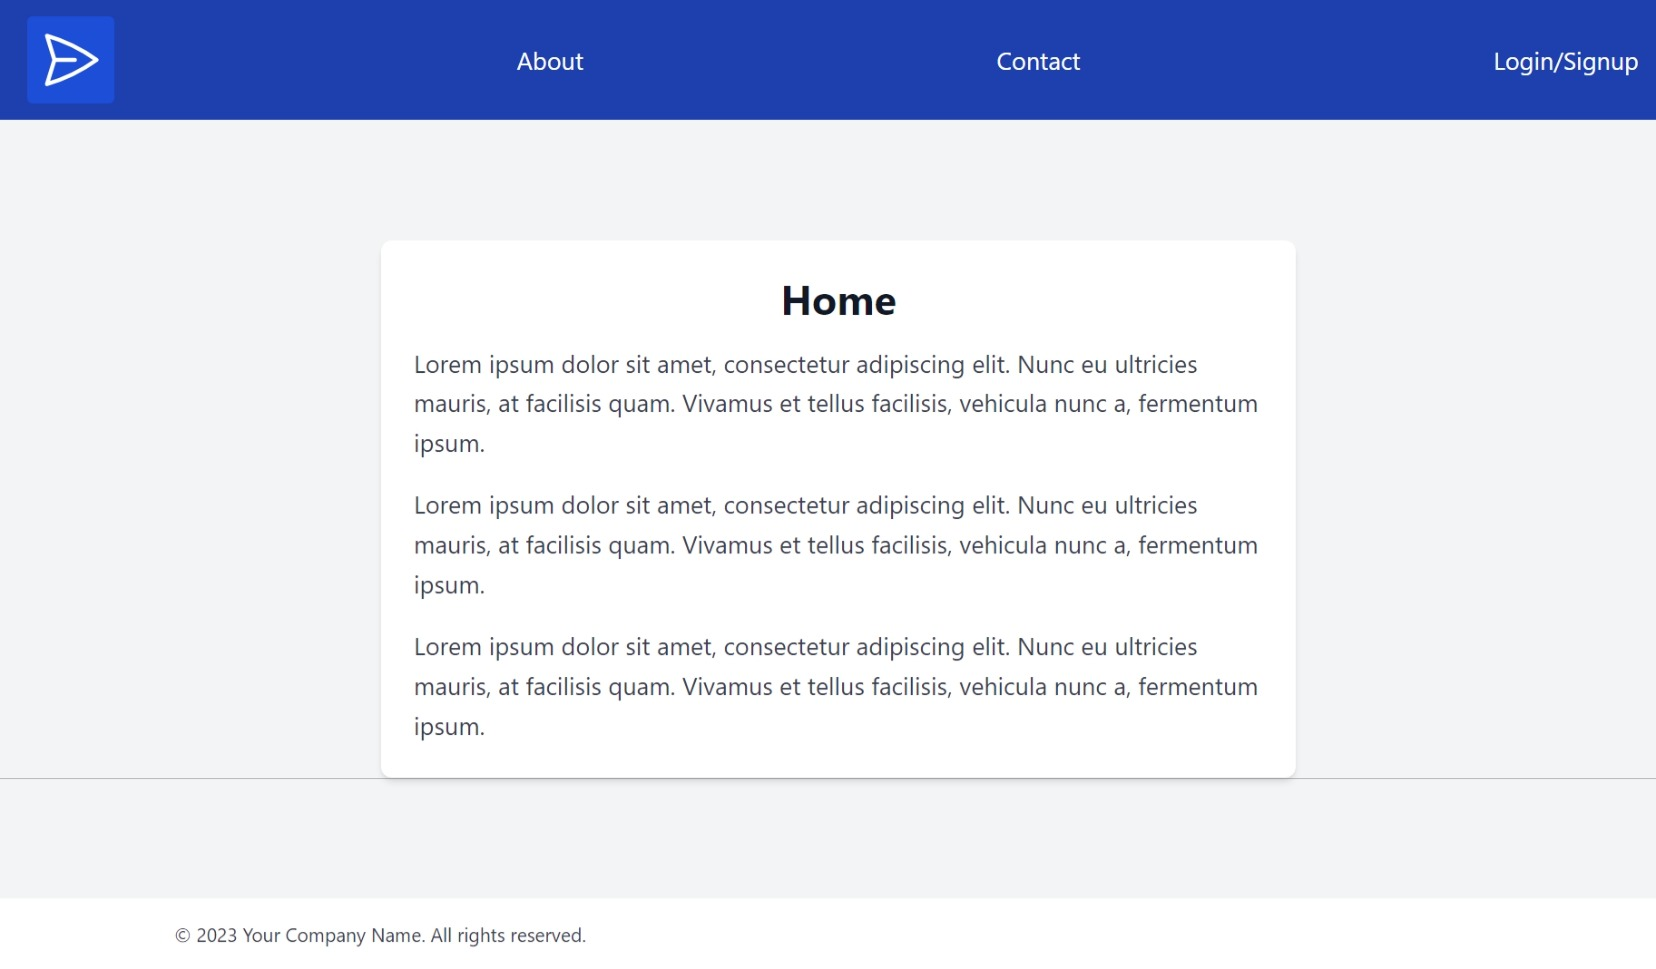
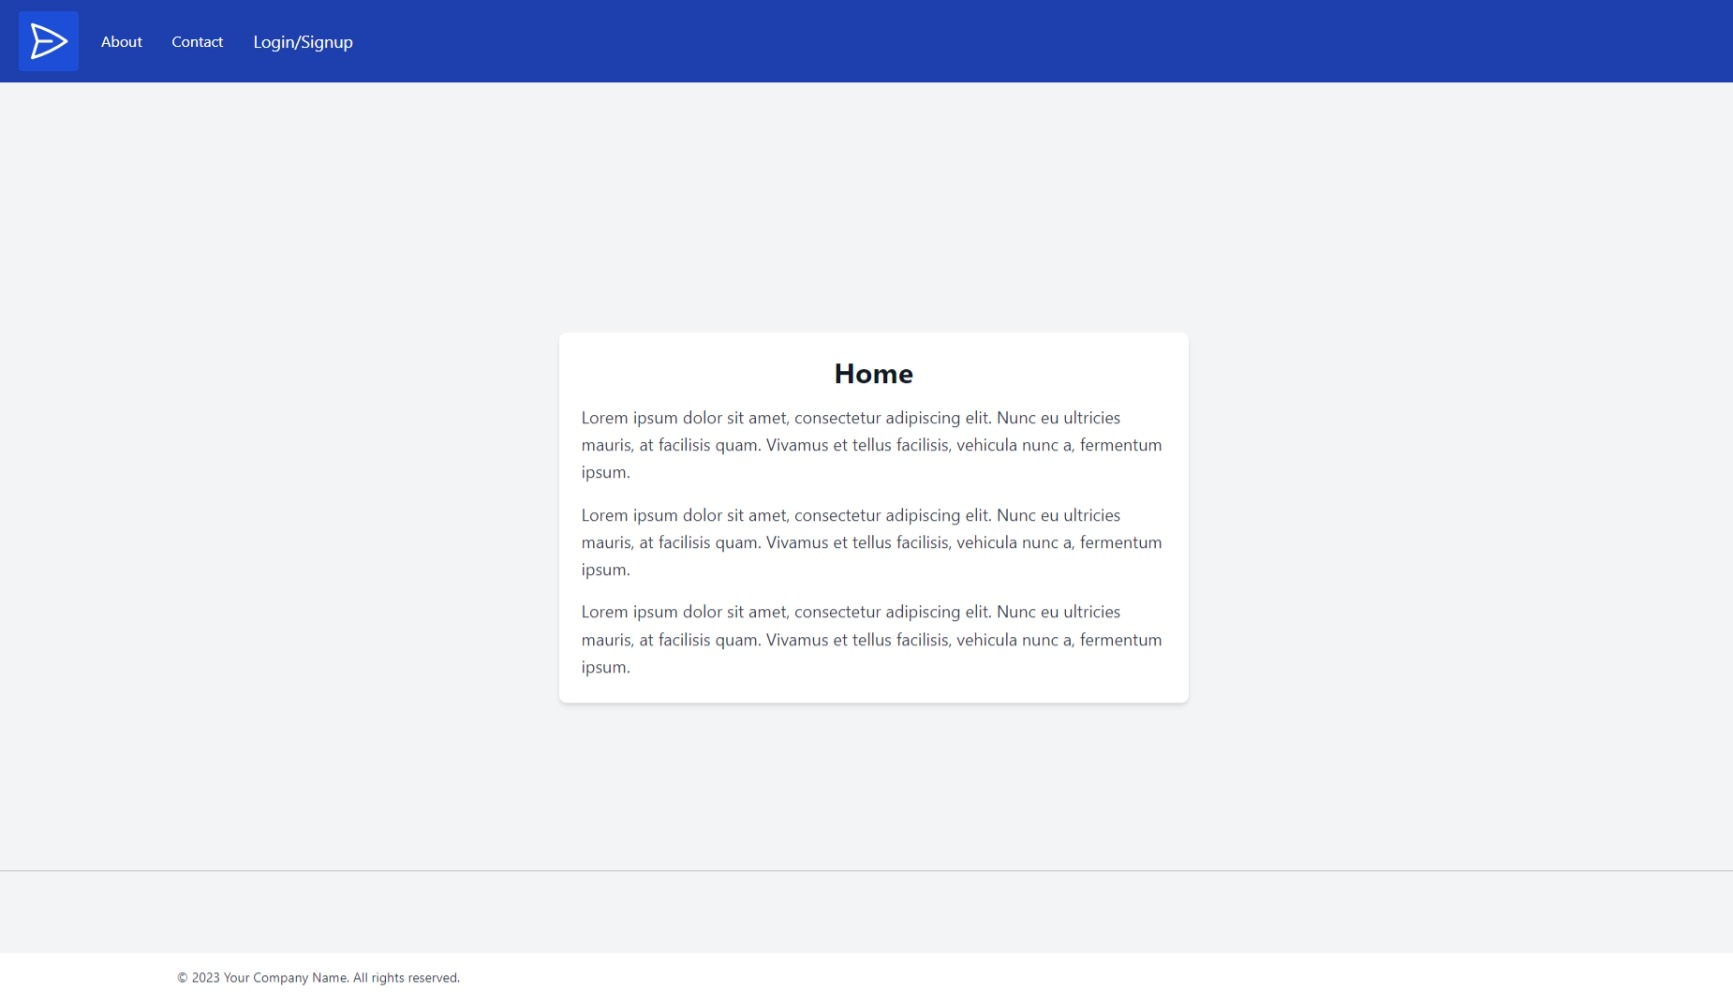
updated screenshots

diff --git a/skyway-demo-dash/src/components/Nav/index.jsx b/skyway-demo-dash/src/components/Nav/index.jsx
@@ -4,6 +4,7 @@ import { UserContext } from "../../contexts/UserContext"; // Assuming you have a
 import { useNavigate } from "react-router-dom";
 
 function Nav() {
+  const [isMenuOpen, setIsMenuOpen] = useState(false);
   const [dropdownOpen, setDropdownOpen] = useState(false);
   const dropdownRef = useRef(null);
   const { user, setUser, isAdmin, setIsAdmin } = useContext(UserContext); // Using useContext to access user and isAdmin state
@@ -44,167 +45,185 @@ function Nav() {
   }, []);
 
   return (
-<nav className="bg-blue-800 text-white p-3 shadow-md">
-  <ul className="flex flex-col md:flex-row justify-between items-center">
-        <li className="mx-2">
-          <NavLink
-            to="/"
-            className={({ isActive }) =>
-              isActive
-                ? "bg-blue-700 p-2 rounded text-lg flex items-center"
-                : "hover:bg-blue-700 p-2 rounded text-lg flex items-center"
-            }
-          >
-            <svg
-              xmlns="http://www.w3.org/2000/svg"
-              fill="none"
-              viewBox="0 0 24 24"
-              strokeWidth={1.5}
-              stroke="currentColor"
-              width="48"
-              height="48"
-              className="flex-shrink-0"
-            >
-              <path
-                strokeLinecap="round"
-                strokeLinejoin="round"
-                d="M6 12L3.269 3.126A59.768 59.768 0 0121.485 12 59.77 59.77 0 013.27 20.876L5.999 12zm0 0h7.5"
-              />
-            </svg>
-          </NavLink>
-        </li>
-
-        {user && isAdmin && (
+    <nav className="bg-blue-800 text-white p-3 shadow-md">
+      <div className="md:hidden" onClick={() => setIsMenuOpen(!isMenuOpen)}>
+        <svg
+          xmlns="http://www.w3.org/2000/svg"
+          fill="none"
+          viewBox="0 0 24 24"
+          strokeWidth={1.5}
+          stroke="currentColor"
+          className="w-6 h-6"
+        >
+          <path
+            strokeLinecap="round"
+            strokeLinejoin="round"
+            d="M3.75 6.75h16.5M3.75 12h16.5m-16.5 5.25h16.5"
+          />
+        </svg>
+      </div>
+      <div className={`${isMenuOpen ? "block" : "hidden"} md:flex`}>
+        <ul className="flex flex-col md:flex-row justify-between items-center">
           <li className="mx-2">
             <NavLink
-              to="/AdminDashboard"
+              to="/"
               className={({ isActive }) =>
                 isActive
-                ? "bg-blue-700 p-2 rounded text-lg"
-                : "hover:bg-blue-700 p-2 rounded text-lg md:text-base"
+                  ? "bg-blue-700 p-2 rounded text-lg flex items-center"
+                  : "hover:bg-blue-700 p-2 rounded text-lg flex items-center"
               }
             >
-              Admin Dashboard
-            </NavLink>
-          </li>
-        )}
-
-        {user && !isAdmin && (
-          <li className="mx-2">
-            <NavLink
-              to="/CustDashboard"
-              className={({ isActive }) =>
-                isActive
-                ? "bg-blue-700 p-2 rounded text-lg"
-                : "hover:bg-blue-700 p-2 rounded text-lg md:text-base"
-              }
-            >
-              Customer Dashboard
-            </NavLink>
-          </li>
-        )}
-        {user && !isAdmin && (
-          <li className="mx-2">
-            <NavLink
-              to="/FleetManager"
-              className={({ isActive }) =>
-                isActive
-                ? "bg-blue-700 p-2 rounded text-lg"
-                : "hover:bg-blue-700 p-2 rounded text-lg md:text-base"
-              }
-            >
-              Fleet Manager
-            </NavLink>
-          </li>
-        )}
-
-        <li className="mx-2">
-          <NavLink
-            to="/about"
-            className={({ isActive }) =>
-              isActive
-              ? "bg-blue-700 p-2 rounded text-lg"
-              : "hover:bg-blue-700 p-2 rounded text-lg md:text-base"
-            }
-          >
-            About
-          </NavLink>
-        </li>
-
-        <li className="mx-2">
-          <NavLink
-            to="/contact"
-            className={({ isActive }) =>
-              isActive
-              ? "bg-blue-700 p-2 rounded text-lg"
-              : "hover:bg-blue-700 p-2 rounded text-lg md:text-base"
-            }
-          >
-            Contact
-          </NavLink>
-        </li>
-
-        {!user && (
-          <li className="mx-2 relative">
-            <button
-              onClick={toggleDropdown}
-              className="hover:bg-blue-700 p-2 rounded focus:outline-none focus:ring-2 focus:ring-blue-500 focus:border-blue-300 text-lg"
-              aria-haspopup="true"
-              aria-expanded={dropdownOpen}
-            >
-              Login/Signup
-            </button>
-            {dropdownOpen && (
-              <div
-                ref={dropdownRef}
-                className="absolute right-0 mt-2 py-2 w-48 bg-white rounded-md shadow-xl z-50"
+              <svg
+                xmlns="http://www.w3.org/2000/svg"
+                fill="none"
+                viewBox="0 0 24 24"
+                strokeWidth={1.5}
+                stroke="currentColor"
+                width="48"
+                height="48"
+                className="flex-shrink-0"
               >
-                <NavLink
-                  to="/adminLogin"
-                  className={({ isActive }) =>
-                    isActive
-                      ? "block px-4 py-2 text-sm text-gray-800 bg-blue-100"
-                      : "block px-4 py-2 text-sm text-gray-800 hover:bg-blue-100"
-                  }
-                >
-                  Admin Login
-                </NavLink>
-                <NavLink
-                  to="/custLogin"
-                  className={({ isActive }) =>
-                    isActive
-                      ? "block px-4 py-2 text-sm text-gray-800 bg-blue-100"
-                      : "block px-4 py-2 text-sm text-gray-800 hover:bg-blue-100"
-                  }
-                >
-                  Customer Login
-                </NavLink>
-                <NavLink
-                  to="/signup"
-                  className={({ isActive }) =>
-                    isActive
-                      ? "block px-4 py-2 text-sm text-gray-800 bg-blue-100"
-                      : "block px-4 py-2 text-sm text-gray-800 hover:bg-blue-100"
-                  }
-                >
-                  Sign Up
-                </NavLink>
-              </div>
-            )}
+                <path
+                  strokeLinecap="round"
+                  strokeLinejoin="round"
+                  d="M6 12L3.269 3.126A59.768 59.768 0 0121.485 12 59.77 59.77 0 013.27 20.876L5.999 12zm0 0h7.5"
+                />
+              </svg>
+            </NavLink>
           </li>
-        )}
 
-        {user && (
+          {user && isAdmin && (
+            <li className="mx-2">
+              <NavLink
+                to="/AdminDashboard"
+                className={({ isActive }) =>
+                  isActive
+                    ? "bg-blue-700 p-2 rounded text-lg"
+                    : "hover:bg-blue-700 p-2 rounded text-lg md:text-base"
+                }
+              >
+                Admin Dashboard
+              </NavLink>
+            </li>
+          )}
+
+          {user && !isAdmin && (
+            <li className="mx-2">
+              <NavLink
+                to="/CustDashboard"
+                className={({ isActive }) =>
+                  isActive
+                    ? "bg-blue-700 p-2 rounded text-lg"
+                    : "hover:bg-blue-700 p-2 rounded text-lg md:text-base"
+                }
+              >
+                Customer Dashboard
+              </NavLink>
+            </li>
+          )}
+          {user && !isAdmin && (
+            <li className="mx-2">
+              <NavLink
+                to="/FleetManager"
+                className={({ isActive }) =>
+                  isActive
+                    ? "bg-blue-700 p-2 rounded text-lg"
+                    : "hover:bg-blue-700 p-2 rounded text-lg md:text-base"
+                }
+              >
+                Fleet Manager
+              </NavLink>
+            </li>
+          )}
+
           <li className="mx-2">
-            <button
-              onClick={logout}
-              className="hover:bg-blue-700 p-2 rounded text-lg"
+            <NavLink
+              to="/about"
+              className={({ isActive }) =>
+                isActive
+                  ? "bg-blue-700 p-2 rounded text-lg"
+                  : "hover:bg-blue-700 p-2 rounded text-lg md:text-base"
+              }
             >
-              Logout
-            </button>
+              About
+            </NavLink>
           </li>
-        )}
-      </ul>
+
+          <li className="mx-2">
+            <NavLink
+              to="/contact"
+              className={({ isActive }) =>
+                isActive
+                  ? "bg-blue-700 p-2 rounded text-lg"
+                  : "hover:bg-blue-700 p-2 rounded text-lg md:text-base"
+              }
+            >
+              Contact
+            </NavLink>
+          </li>
+
+          {!user && (
+            <li className="mx-2 relative">
+              <button
+                onClick={toggleDropdown}
+                className="hover:bg-blue-700 p-2 rounded focus:outline-none focus:ring-2 focus:ring-blue-500 focus:border-blue-300 text-lg"
+                aria-haspopup="true"
+                aria-expanded={dropdownOpen}
+              >
+                Login/Signup
+              </button>
+              {dropdownOpen && (
+                <div
+                  ref={dropdownRef}
+                  className="absolute right-0 mt-2 py-2 w-48 bg-white rounded-md shadow-xl z-50"
+                >
+                  <NavLink
+                    to="/adminLogin"
+                    className={({ isActive }) =>
+                      isActive
+                        ? "block px-4 py-2 text-sm text-gray-800 bg-blue-100"
+                        : "block px-4 py-2 text-sm text-gray-800 hover:bg-blue-100"
+                    }
+                  >
+                    Admin Login
+                  </NavLink>
+                  <NavLink
+                    to="/custLogin"
+                    className={({ isActive }) =>
+                      isActive
+                        ? "block px-4 py-2 text-sm text-gray-800 bg-blue-100"
+                        : "block px-4 py-2 text-sm text-gray-800 hover:bg-blue-100"
+                    }
+                  >
+                    Customer Login
+                  </NavLink>
+                  <NavLink
+                    to="/signup"
+                    className={({ isActive }) =>
+                      isActive
+                        ? "block px-4 py-2 text-sm text-gray-800 bg-blue-100"
+                        : "block px-4 py-2 text-sm text-gray-800 hover:bg-blue-100"
+                    }
+                  >
+                    Sign Up
+                  </NavLink>
+                </div>
+              )}
+            </li>
+          )}
+
+          {user && (
+            <li className="mx-2">
+              <button
+                onClick={logout}
+                className="hover:bg-blue-700 p-2 rounded text-lg"
+              >
+                Logout
+              </button>
+            </li>
+          )}
+        </ul>
+      </div>
     </nav>
   );
 }
